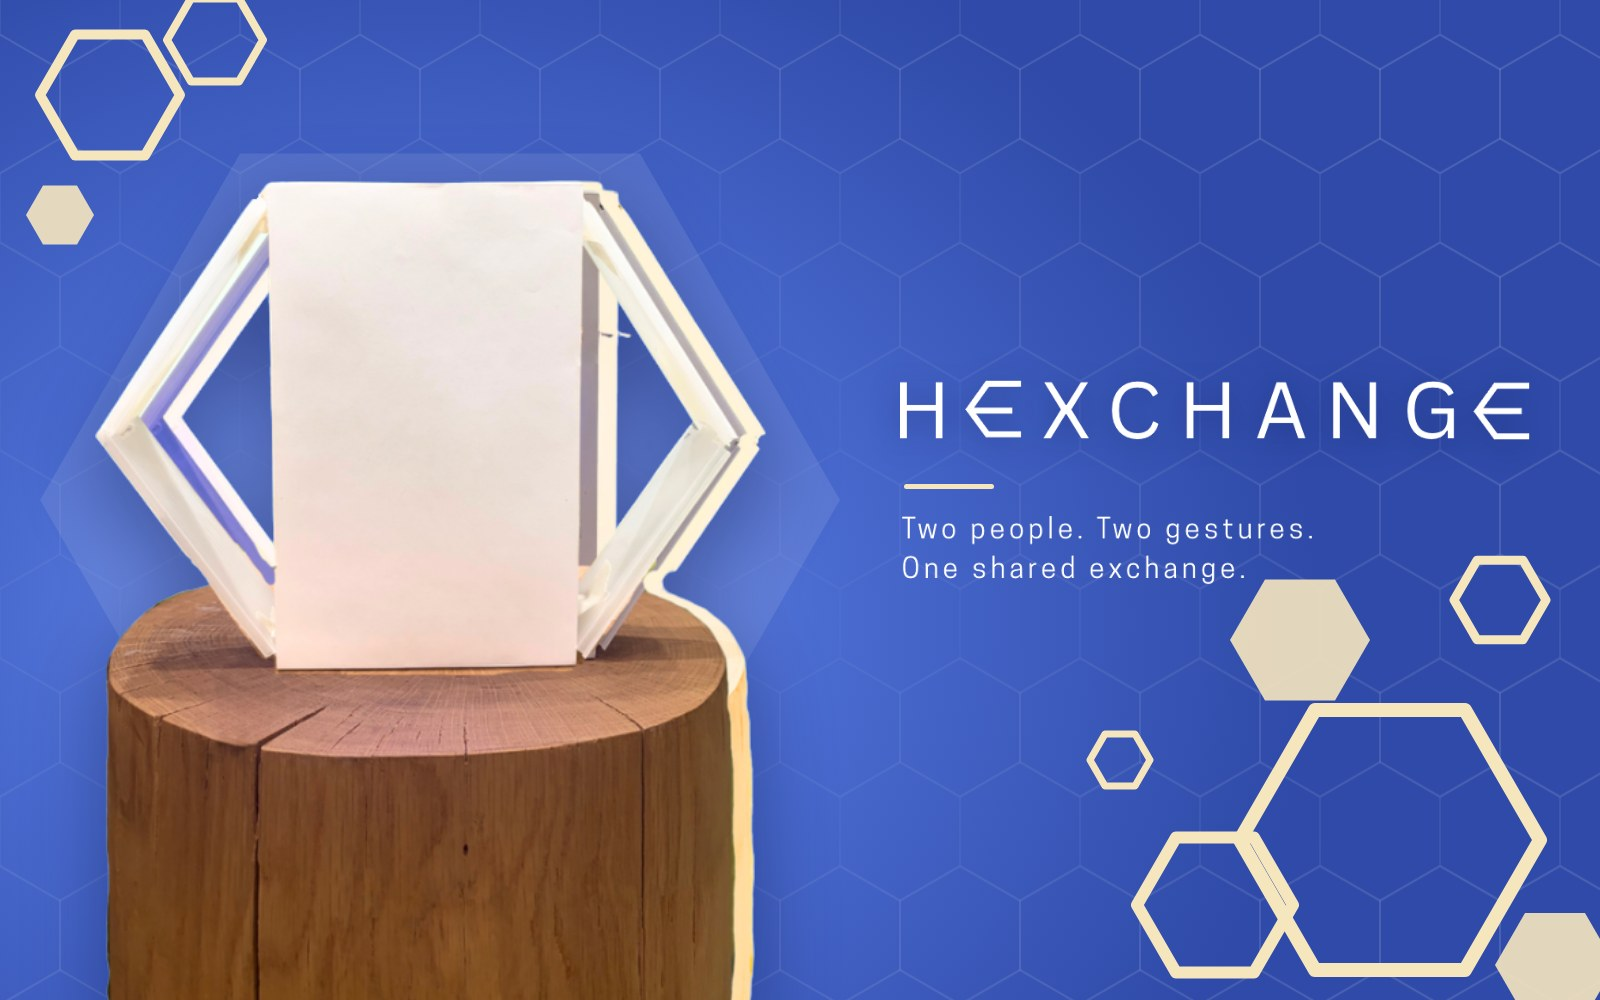
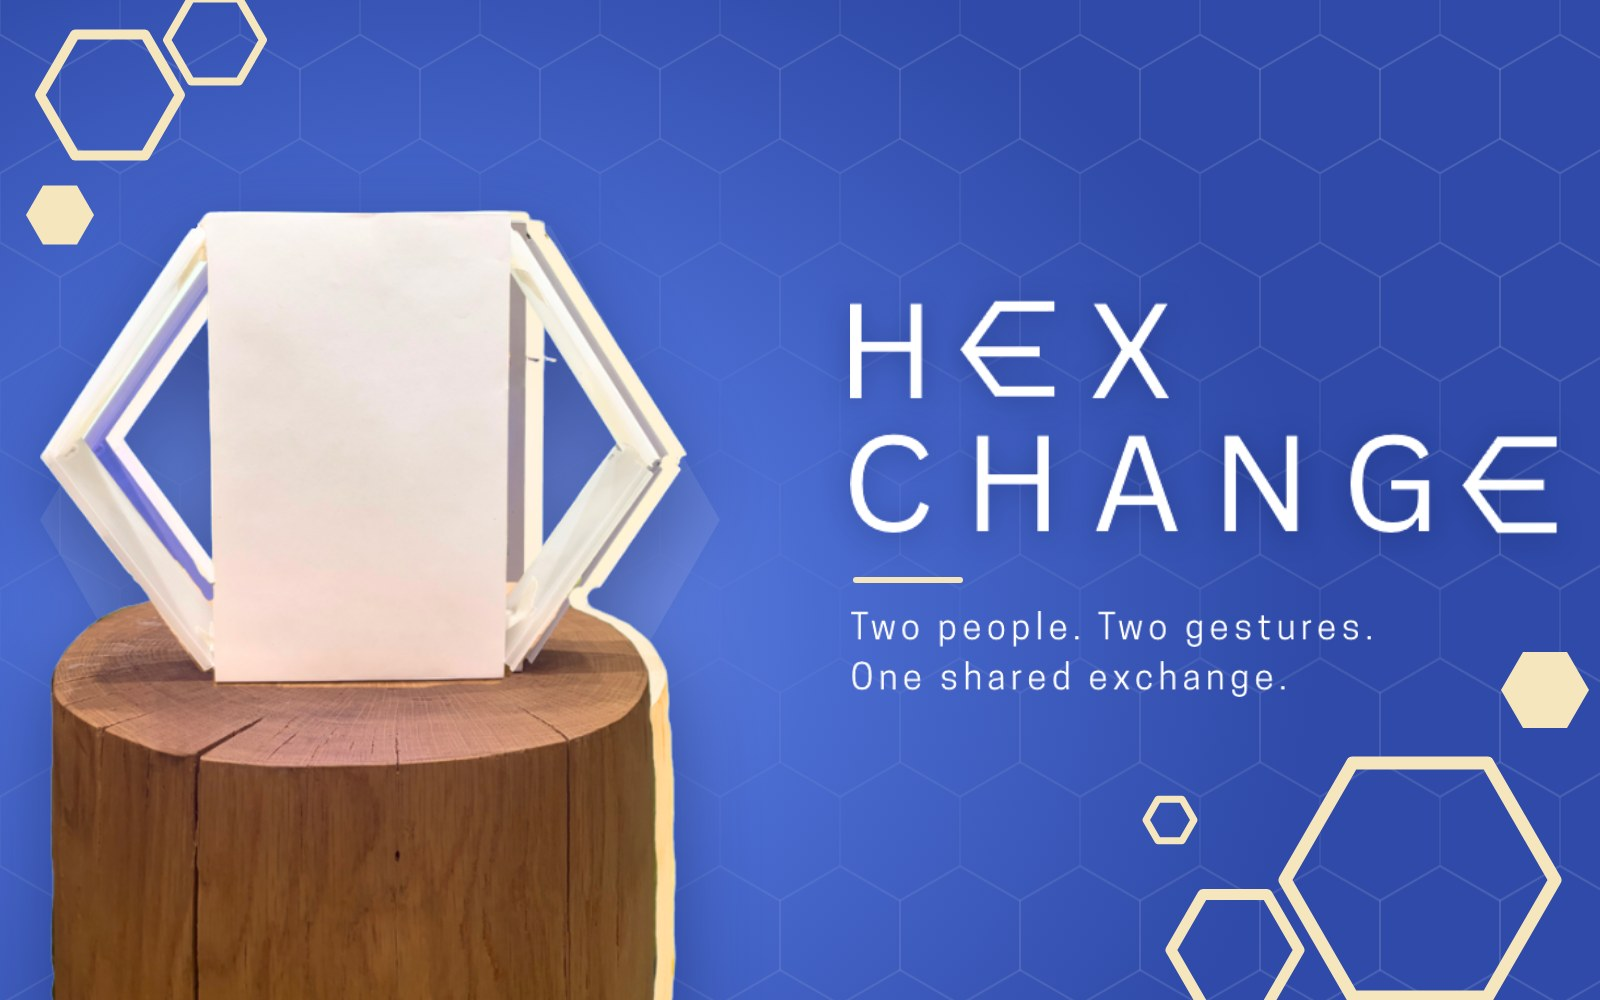
Hexchange: in-progress lock, bigger title on cover
Claude-Session: https://claude.ai/code/session_01UHrP7f3T6PvekE7nxDfNFQ

diff --git a/js/app.js b/js/app.js
@@ -77,9 +77,11 @@
   function indexList(tabId) {
     return S.tabs[tabId].projects.filter((s) => PROJECTS[s]).map((s) => {
       const p = PROJECTS[s];
-      return `<li><a href="#${p.slug}" data-cover="${esc(p.cover?.src || "")}" data-ratio="${esc(p.cover?.ratio || "16/10")}">
+      // "locked": shown as In progress, not clickable
+      const tag = p.locked ? "span" : "a";
+      return `<li${p.locked ? ' class="locked"' : ""}><${tag} ${p.locked ? 'aria-disabled="true"' : `href="#${p.slug}"`} data-cover="${esc(p.cover?.src || "")}" data-ratio="${esc(p.cover?.ratio || "16/10")}">
         <span class="t"><canvas class="seal" data-seal="${esc(p.slug)}" aria-hidden="true"></canvas>${esc(p.title)}</span><span class="k mono muted">${esc(p.kicker)}</span>
-        <span class="y mono muted">${esc(p.year)}</span><span class="arrow">→</span></a></li>`;
+        <span class="y mono muted">${p.locked ? "In progress" : esc(p.year)}</span><span class="arrow">${p.locked ? "" : "→"}</span></${tag}></li>`;
     }).join("");
   }
 
@@ -123,6 +125,9 @@
     const t = S.tabs[id];
     const cards = t.projects.filter((s) => PROJECTS[s]).map((s) => {
       const p = PROJECTS[s];
+      if (p.locked) return `<div class="card locked" aria-disabled="true"><div class="lock-wrap">${media(p.cover, p.title + " cover")}<span class="lock-badge mono">In progress</span></div>
+        <div class="card-meta"><h3><canvas class="seal" data-seal="${esc(p.slug)}" aria-hidden="true"></canvas>${esc(p.title)}</h3><span class="mono muted">Coming soon</span></div>
+        <span class="mono muted">${esc(p.kicker)}</span>${p.blurb ? `<p>${esc(p.blurb)}</p>` : ""}</div>`;
       return `<a class="card" href="#${p.slug}">${media(p.cover, p.title + " cover")}
         <div class="card-meta"><h3><canvas class="seal" data-seal="${esc(p.slug)}" aria-hidden="true"></canvas>${esc(p.title)}</h3><span class="mono muted">${esc(p.year)}</span></div>
         <span class="mono muted">${esc(p.kicker)}</span><p>${esc(p.blurb || p.summary)}</p></a>`;
@@ -232,7 +237,7 @@
   }
 
   function project(p) {
-    const list = S.tabs[p.tab].projects.filter((s) => PROJECTS[s]);
+    const list = S.tabs[p.tab].projects.filter((s) => PROJECTS[s] && (!PROJECTS[s].locked || s === p.slug));
     const next = PROJECTS[list[(list.indexOf(p.slug) + 1) % list.length]];
     const spec = [["Role", p.role], ["Tools", p.tools], ["Year", p.year]]
       .map(([k, v]) => `<div><dt class="mono">${k}</dt><dd>${txt(v)}</dd></div>`).join("");
@@ -318,6 +323,7 @@
     let html;
     if (h === "physical" || h === "digital") html = tabView(h);
     else if (h === "about") html = about();
+    else if (PROJECTS[h] && PROJECTS[h].locked) { location.replace("#" + PROJECTS[h].tab); return; }
     else if (PROJECTS[h]) html = project(PROJECTS[h]);
     else html = home();
     app.innerHTML = html;

diff --git a/css/style.css b/css/style.css
@@ -110,7 +110,7 @@ body::before {
 .index-head a:hover { color: var(--accent); }
 
 .index { list-style: none; margin: 0 0 56px; padding: 0; }
-.index a {
+.index a, .index li.locked > span {
   display: grid; grid-template-columns: minmax(0, 1fr) minmax(0, 1fr) 90px 24px;
   gap: 16px; align-items: baseline; padding: 18px 0; text-decoration: none;
   border-bottom: 1px solid var(--line); transition: padding 0.25s ease, color 0.2s;
@@ -232,7 +232,7 @@ footer .wrap { display: flex; justify-content: space-between; gap: 16px; flex-wr
   .status { display: none; }
   .hero-meta { grid-template-columns: 1fr; }
   .hero-meta .facts { justify-items: start; text-align: left; }
-  .index a { grid-template-columns: minmax(0, 1fr) 24px; }
+  .index a, .index li.locked > span { grid-template-columns: minmax(0, 1fr) 24px; }
   .index .k, .index .y { display: none; }
   .grid { grid-template-columns: 1fr; }
   .spec { grid-template-columns: repeat(2, minmax(0, 1fr)); }
@@ -648,3 +648,13 @@ html.intro .home .tiles .tile:nth-child(3) { animation-delay: 0.52s; }
 .lb-stars { color: #00e054; font-size: .95rem; letter-spacing: 1px; line-height: 1; }
 .flip-back.lb p { color: #def; font-size: clamp(.72rem, .9vw, .86rem); line-height: 1.4; }
 .lb-foot { margin-top: auto; padding-top: 6px; border-top: 1px solid #2c3440; font-family: var(--mono); font-size: .58rem; letter-spacing: .08em; text-transform: uppercase; color: #678; }
+
+/* locked (in progress) projects */
+.card.locked { cursor: default; }
+.card.locked .lock-wrap { position: relative; }
+.card.locked .lock-wrap > :first-child { filter: blur(2.5px) saturate(.8); }
+.card.locked .lock-wrap::after { content: ""; position: absolute; inset: 0; background: rgba(20,18,40,.38); pointer-events: none; }
+.lock-badge { z-index: 1; }
+.lock-badge { position: absolute; left: 50%; top: 50%; transform: translate(-50%, -50%); background: rgba(17,17,17,.82); color: #fff; padding: 10px 18px; border-radius: 999px; font-size: .78rem; letter-spacing: .12em; text-transform: uppercase; white-space: nowrap; backdrop-filter: blur(4px); }
+.card.locked:hover { transform: none; }
+.index li.locked > span { cursor: default; opacity: .55; }

diff --git a/index.html b/index.html
@@ -8,13 +8,13 @@
 <link rel="preconnect" href="https://fonts.googleapis.com">
 <link rel="preconnect" href="https://fonts.gstatic.com" crossorigin>
 <link rel="stylesheet" href="https://fonts.googleapis.com/css2?family=Archivo:wdth,wght@62..125,700..800&family=Bricolage+Grotesque:opsz,wdth,wght@12..96,75..100,400..800&family=Instrument+Sans:wght@400;500;600&family=Instrument+Serif:ital@1&family=Syne:wght@700..800&family=Archivo+Narrow:wght@500;600;700&family=Caveat:wght@500;600&display=swap">
-<link rel="stylesheet" href="css/style.css?v=202611152342">
+<link rel="stylesheet" href="css/style.css?v=202611160002">
 </head>
 <body>
 <div id="app"></div>
-<script>window.SITE_VERSION = "202611152342";</script>
-<script src="content/site.js?v=202611152342"></script>
-<script src="js/glyphs.js?v=202611152342"></script>
-<script src="js/app.js?v=202611152342"></script>
+<script>window.SITE_VERSION = "202611160002";</script>
+<script src="content/site.js?v=202611160002"></script>
+<script src="js/glyphs.js?v=202611160002"></script>
+<script src="js/app.js?v=202611160002"></script>
 </body>
 </html>

diff --git a/content/projects/1101.js b/content/projects/1101.js
@@ -3,12 +3,13 @@ addProject({
   slug: "1101",
   tab: "physical",
   title: "Hexchange",
+  locked: true, // shows "In progress" and can't be opened; delete this line to publish
   kicker: "Studio coursework",
   year: "[2025]",
   role: "[Designer]",
   tools: "[Cardboard, foam core, 3D printing, SolidWorks]",
   summary: "[What 1101 is, and the 2–3 projects you're showing from it.]",
-  cover: { src: "assets/physical/hexchange-cover.jpg", ratio: "16/10", alt: "Hexchange prototype on a wood stump beside the Hexchange wordmark" },
+  cover: { src: "assets/physical/hexchange-cover.jpg?v=202611160002", ratio: "16/10", alt: "Hexchange prototype on a wood stump beside the Hexchange wordmark" },
 
   sections: [
     { type: "text", heading: "[Project A]",
